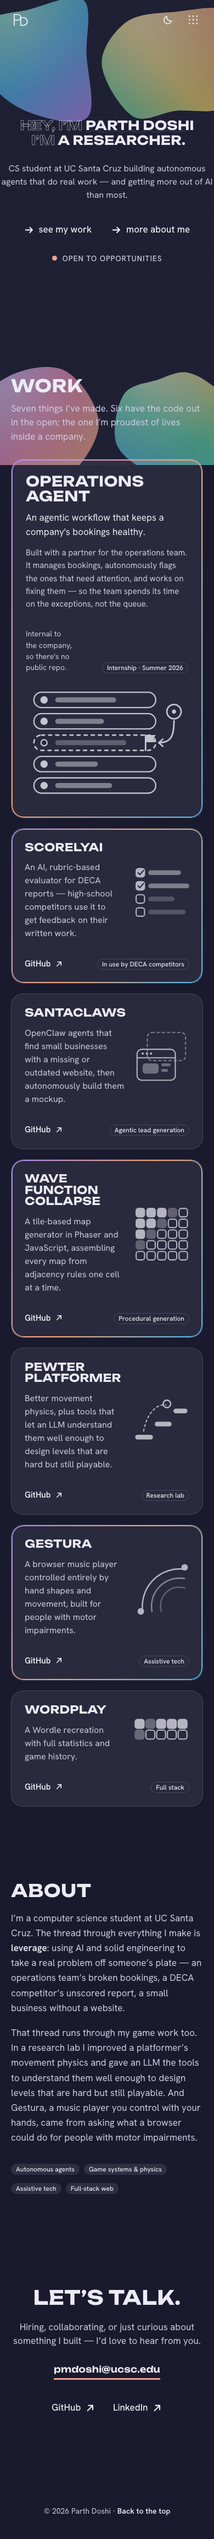
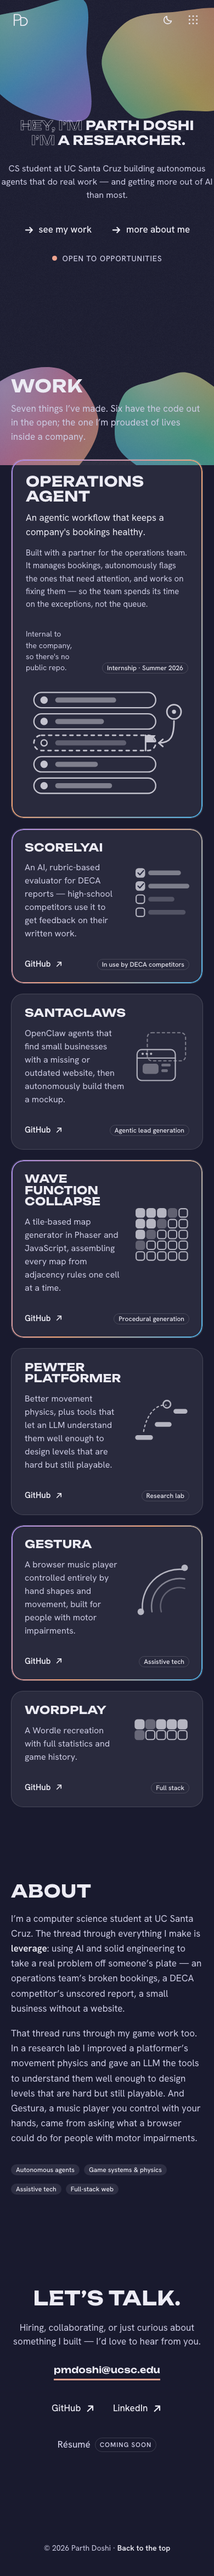
Resume placeholder: one flag switches a designed pending state to a real download

diff --git a/components/ResumeLink.tsx b/components/ResumeLink.tsx
@@ -1,0 +1,29 @@
+import { resume } from "@/data/site";
+import { ArrowDown } from "@/components/Icon";
+
+/**
+ * One flag, two states. Pending is a designed state, not a stopgap: it reads
+ * as deliberate, states its own status inline, and is inert to pointer,
+ * keyboard and screen reader alike.
+ */
+export default function ResumeLink({
+  className = "link-arrow",
+}: {
+  className?: string;
+}) {
+  if (!resume.ready) {
+    return (
+      <span className={`${className} is-pending`} aria-disabled="true">
+        Résumé
+        <span className="pending-note">coming soon</span>
+      </span>
+    );
+  }
+
+  return (
+    <a className={className} href={resume.path} download>
+      Résumé
+      <ArrowDown />
+    </a>
+  );
+}

diff --git a/app/globals.css b/app/globals.css
@@ -748,6 +748,36 @@ svg {
   .link-arrow:hover .icon {
     transform: translateX(4px);
   }
+  /* Pending is not a control: no hover response, no pointer. */
+  .link-arrow.is-pending:hover {
+    color: var(--ink-2);
+  }
+}
+
+.link-arrow.is-pending {
+  color: var(--ink-2);
+  cursor: default;
+}
+
+.pending-note {
+  font-size: 0.75rem;
+  font-weight: 600;
+  letter-spacing: 0.08em;
+  text-transform: uppercase;
+  color: var(--ink-2);
+  border: 1px solid var(--border);
+  border-radius: 999px;
+  padding: 3px 8px;
+}
+
+.menu__resume {
+  display: inline-flex;
+  align-items: center;
+  gap: 8px;
+  padding: 0;
+  font-size: 0.9375rem;
+  font-weight: 400;
+  color: var(--ink-2);
 }
 
 @media (max-width: 720px) {

diff --git a/data/site.ts b/data/site.ts
@@ -1,0 +1,17 @@
+/**
+ * Site-level config that isn't project content.
+ *
+ * The résumé ships as a designed pending state rather than a dead link: until
+ * the PDF exists, the page says so in words (not a hover-only hint, which
+ * touch users never see) and nothing is clickable. To publish it:
+ *
+ *   1. drop the file at `public/resume.pdf`
+ *   2. flip `ready` to true below
+ *
+ * That is the whole change — the link, the download attribute and the menu
+ * entry all switch over from this one flag.
+ */
+export const resume = {
+  path: "/resume.pdf",
+  ready: false,
+} as const;

diff --git a/components/Shell.tsx b/components/Shell.tsx
@@ -11,6 +11,7 @@ import {
 } from "@/components/ui/sheet";
 import Monogram from "@/components/Monogram";
 import ThemeToggle from "@/components/ThemeToggle";
+import ResumeLink from "@/components/ResumeLink";
 import { links } from "@/data/projects";
 
 const items = [
@@ -96,6 +97,7 @@ export default function Shell() {
               <a href={links.linkedin} target="_blank" rel="noreferrer">
                 LinkedIn
               </a>
+              <ResumeLink className="menu__resume" />
             </div>
           </SheetContent>
         </Sheet>

diff --git a/components/Icon.tsx b/components/Icon.tsx
@@ -17,6 +17,23 @@ export function ArrowRight({ className = "icon" }: IconProps) {
   );
 }
 
+export function ArrowDown({ className = "icon" }: IconProps) {
+  return (
+    <svg
+      className={className}
+      viewBox="0 0 20 20"
+      fill="none"
+      stroke="currentColor"
+      strokeWidth="2.25"
+      strokeLinecap="round"
+      strokeLinejoin="round"
+      aria-hidden="true"
+    >
+      <path d="M10 3v13M5 11l5 5 5-5" />
+    </svg>
+  );
+}
+
 export function ArrowUpRight({ className = "icon" }: IconProps) {
   return (
     <svg

diff --git a/components/Contact.tsx b/components/Contact.tsx
@@ -1,5 +1,6 @@
 import { links } from "@/data/projects";
 import { ArrowUpRight } from "@/components/Icon";
+import ResumeLink from "@/components/ResumeLink";
 
 export default function Contact() {
   return (
@@ -37,6 +38,7 @@ export default function Contact() {
           LinkedIn
           <ArrowUpRight />
         </a>
+        <ResumeLink />
       </div>
     </section>
   );

diff --git a/CLAUDE.md b/CLAUDE.md
@@ -32,7 +32,7 @@ Screenshots in `.impeccable/review/` (1440 and 390 wide, fold + full page) were 
 
 ## Product and design constraints
 
-- `PRODUCT.md` is product truth. The parts that bite: never invent metrics, users, or testimonials; **Operations Agent has no public repo** (internship-confidential) and must not be given a link; the resume PDF has not been supplied — don't render a resume link until it exists.
+- `PRODUCT.md` is product truth. The parts that bite: never invent metrics, users, or testimonials; **Operations Agent has no public repo** (internship-confidential) and must not be given a link; the resume PDF has not been supplied. It ships as a designed pending state via `data/site.ts`: drop the file at `public/resume.pdf` and flip `resume.ready` to `true` — that single flag switches the Contact and menu entries from an inert "coming soon" to a real download link. Never hand-wire a resume link around it.
 - The visual direction was **pinned by the user** to three reference screenshots in `.impeccable/references/` (Seán's warm-gradient, rounded-type portfolio leads). Light theme only. Don't re-propose a dark or "console/terminal" aesthetic; that direction was explicitly superseded (history in `.impeccable/surfaces/homepage.md`).
 - Every copy claim on the page traces to `PRODUCT.md`; when in doubt, soften rather than escalate ("improved", not "rebuilt").
 
